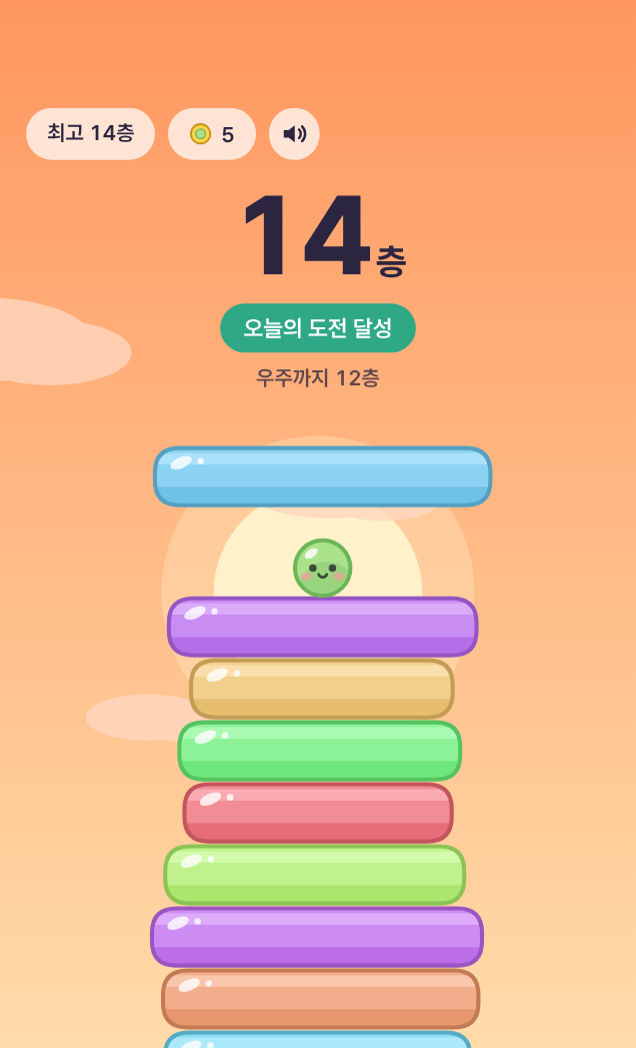
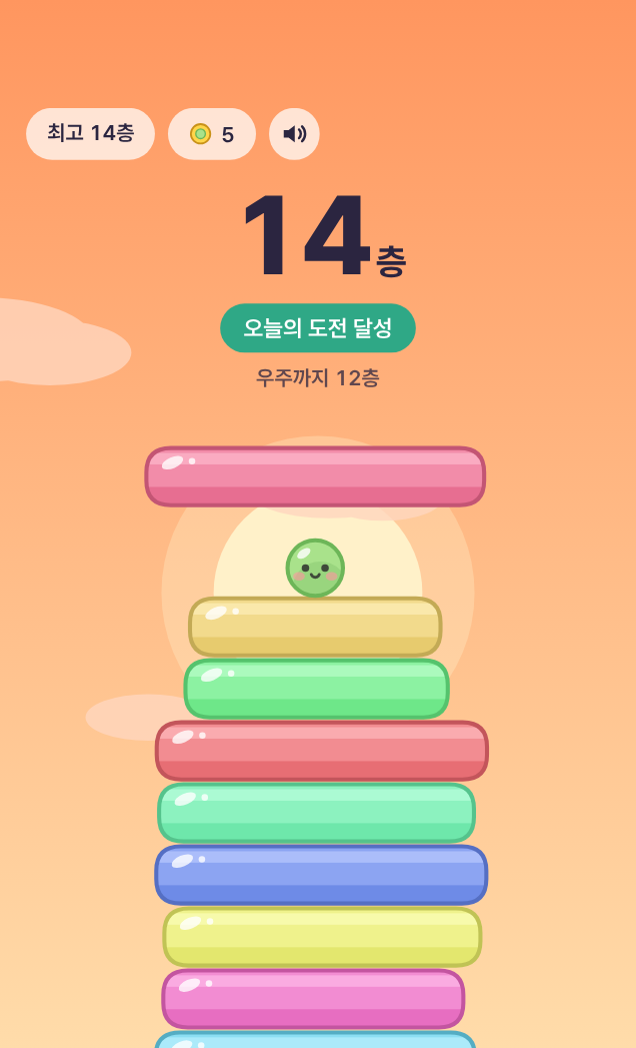
시작 화면: 제목을 패널 안 한 줄로, 완두콩과 패널을 띄워 배치, 타이틀 이미지 제거
Claude-Session: https://claude.ai/code/session_01HAryo8BdeanCWNXRxYGU2m

Changed region(s): [[0.2091, 0.4275, 0.7767, 1.0]]

diff --git a/src/index.css b/src/index.css
@@ -576,8 +576,9 @@ button:focus-visible {
   display: flex;
   flex-direction: column;
   align-items: center;
-  justify-content: space-between;
-  padding: calc(84px + var(--safe-top)) 20px calc(20px + env(safe-area-inset-bottom));
+  justify-content: flex-end;
+  gap: 28px;
+  padding: calc(64px + var(--safe-top)) 20px calc(64px + env(safe-area-inset-bottom));
   pointer-events: none;
 }
 
@@ -585,22 +586,17 @@ button:focus-visible {
   pointer-events: auto;
 }
 
-.title {
+.title-name {
   margin: 0;
-  width: 100%;
-  max-width: 340px;
-  line-height: 0;
-}
-
-.title img {
-  width: 100%;
-  height: auto;
-  user-select: none;
-  -webkit-user-drag: none;
-  filter: drop-shadow(0 6px 0 rgba(43, 37, 64, 0.14));
+  font-size: 28px;
+  font-weight: 800;
+  letter-spacing: -0.04em;
+  line-height: 1.15;
+  color: var(--accent);
 }
 
 .title-pea {
+  margin: auto 0;
   border: 0;
   padding: 0;
   background: none;
@@ -684,11 +680,12 @@ button:focus-visible {
 
 @media (max-height: 720px) {
   .title-screen {
-    padding-top: calc(70px + var(--safe-top));
+    gap: 16px;
+    padding-bottom: calc(18px + env(safe-area-inset-bottom));
   }
 
-  .title {
-    max-width: 290px;
+  .title-name {
+    font-size: 25px;
   }
 
   .title-pea canvas {

diff --git a/src/App.tsx b/src/App.tsx
@@ -358,13 +358,11 @@ export default function App() {
 
       {screen === 'home' && !shopOpen && (
         <div className="title-screen">
-          <h1 className="title">
-            <img src="/title.png" alt="완두콩의 높이 쌓기" draggable={false} />
-          </h1>
           <button type="button" className="title-pea" onClick={() => setShopOpen(true)} disabled={!progress} aria-label="내 완두콩 보기">
             <PeaPreview bean={progress?.bean ?? 'pea'} acc={progress?.acc ?? 'none'} size={128} mood="happy" />
           </button>
           <div className="title-bottom">
+            <h1 className="title-name">완두콩의 높이 쌓기</h1>
             <p className="title-how">꾹 눌러 키우고, 같은 폭에서 손을 떼요</p>
             <div className="stats">
               <div className="stat">

diff --git a/docs/PROGRESS.md b/docs/PROGRESS.md
@@ -3,7 +3,7 @@
 다음에 이어서 작업할 때 이 파일부터 보세요. 최신 내용이 위에 있어요.
 
 ## 2026-11-17 오전
-- 시작 화면 제목을 하니가 보낸 타이틀 이미지로 교체(`public/title.png`, 720px로 줄임)
+- 시작 화면 제목: 이미지 타이틀은 이질감이 있어 빼고, 아래 패널 맨 위에 '완두콩의 높이 쌓기' 한 줄(굵은 주황 글씨). 완두콩은 하늘 가운데에 띄우고 패널과 간격을 둠
 - 최고 기록·오늘의 도전·연속 출석을 다시 큰 칸으로(오늘 달성하면 초록, 연속 출석 숫자는 주황)
 - 무지개콩·왕관 가격 1000으로
 - 딱 판정 완화: ±2.5% → ±3.5%(최소 3.5px)
